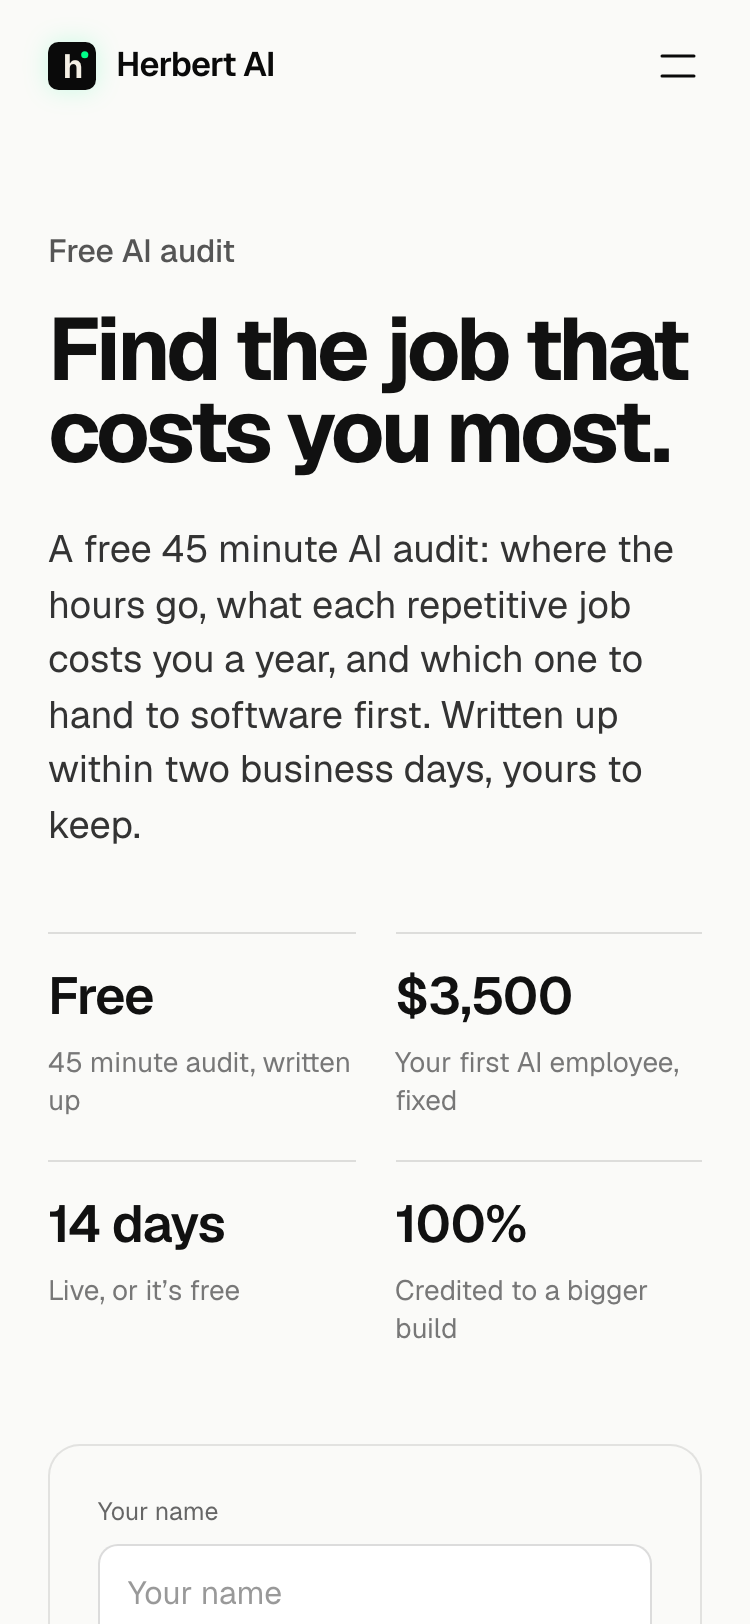
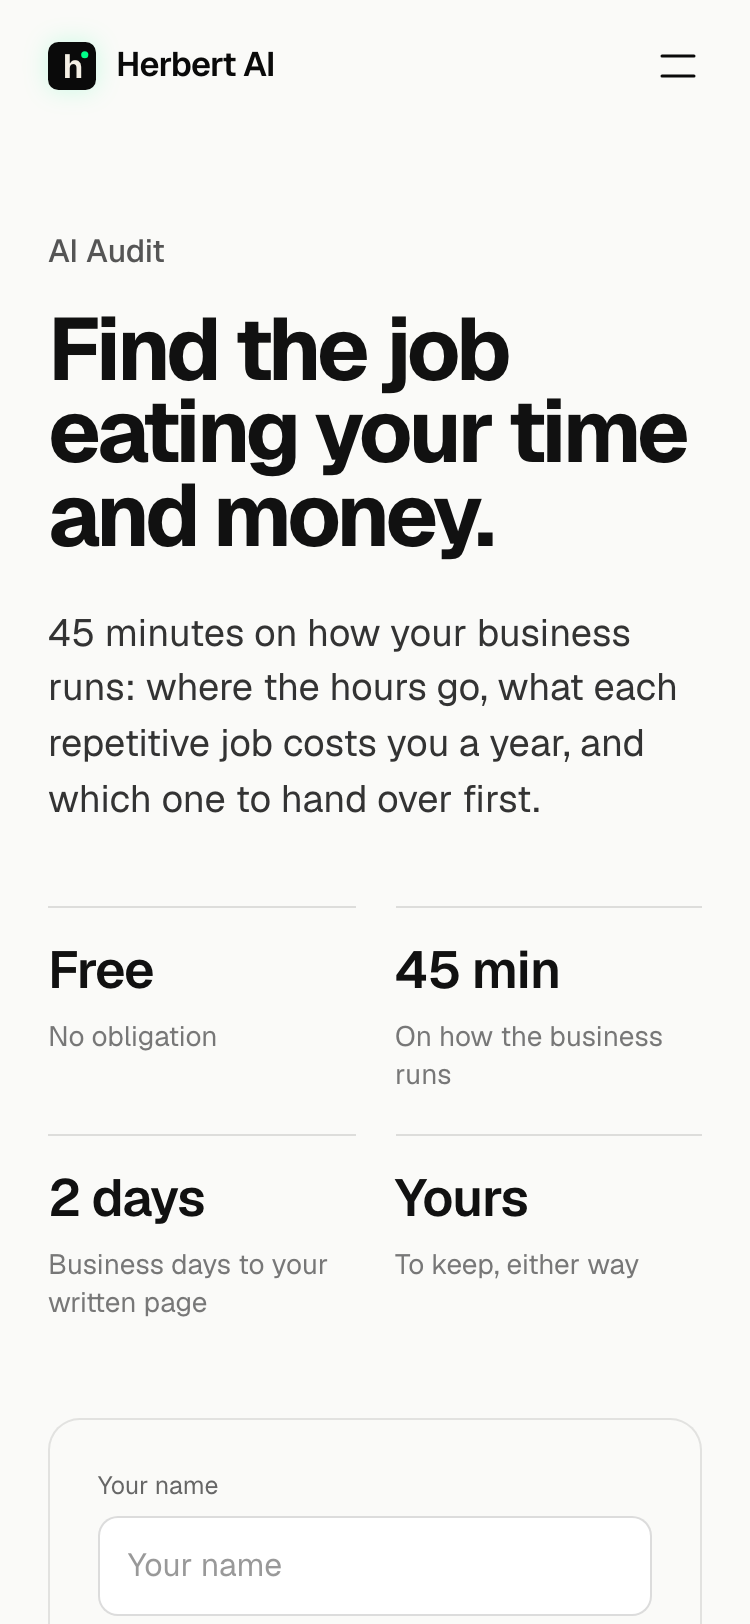
pilot: the label ai audit, a one-sentence intro and the audit's own terms

diff --git a/herbertai-website/src/app/pilot/page.js b/herbertai-website/src/app/pilot/page.js
@@ -72,12 +72,15 @@ const faqJsonLd = {
 // skeletons are in docs/design/design-pass-site-2026-10-20-pilot-skeleton.png.
 // Words are the details pass, section by section. Detail 1 (Will, 20 Oct 2026,
 // "1"): the heading answers the homepage's last question in the same words.
+// Detail 2 (Will, 20 Oct 2026, "1, can u change the heading from Free AI Audit
+// to AI Audit"): a one-sentence intro and the audit's own terms; the pilot's
+// terms are explained in How it works and the questions.
 
 const TERMS = [
-  ['Free', '45 minute audit, written up'],
-  ['$3,500', 'Your first AI employee, fixed'],
-  ['14 days', 'Live, or it’s free'],
-  ['100%', 'Credited to a bigger build'],
+  ['Free', 'No obligation'],
+  ['45 min', 'On how the business runs'],
+  ['2 days', 'Business days to your written page'],
+  ['Yours', 'To keep, either way'],
 ]
 
 const STEPS = [
@@ -133,14 +136,13 @@ export default function Pilot() {
       <section id="book" className="bg-[#FAFAF8] text-[#111] scroll-mt-4">
         <div className="max-w-[1280px] mx-auto px-6 lg:px-12 pt-12 md:pt-16 pb-20 md:pb-24 grid lg:grid-cols-[0.95fr_1.05fr] gap-x-14 gap-y-12 items-center">
           <div className="min-w-0">
-            <Label>Free AI audit</Label>
+            <Label>AI Audit</Label>
             <h1 className="font-bold tracking-[-0.045em] leading-[0.95] max-w-[14ch]" style={{ fontSize: 'clamp(44px, 4.4vw, 64px)' }}>
               Find the job eating your time and money.
             </h1>
             <p className="mt-6 text-[19px] leading-[1.45] text-[#333] max-w-[40ch]">
-              A free 45 minute AI audit: where the hours go, what each repetitive job costs you a
-              year, and which one to hand to software first. Written up within two business days,
-              yours to keep.
+              45 minutes on how your business runs: where the hours go, what each repetitive job
+              costs you a year, and which one to hand over first.
             </p>
             <div className="mt-10 grid grid-cols-2 sm:grid-cols-4 gap-5 max-w-[760px]">
               {TERMS.map(([n, l]) => (

diff --git a/herbertai-website/docs/design/design-pass-site-2026-09.md b/herbertai-website/docs/design/design-pass-site-2026-09.md
@@ -2307,4 +2307,11 @@ terms (recommended): a one-sentence intro and Free / 45 min / 2 days / Yours,
 the pilot’s terms left to How it works and the questions. 2 no terms. 3 the
 short intro and the audit’s terms as one line of small print. Awaiting
 Will’s pick.
+Will (20 Oct 2026): "1, can u change the heading from Free AI Audit to AI
+Audit". Built: the label "AI Audit", the one-sentence intro, and the terms
+Free (No obligation), 45 min (On how the business runs), 2 days (Business days
+to your written page), Yours (To keep, either way). Verified at five widths,
+no term wraps. Carried to the How it works detail: the pilot’s $3,500 and its
+14-day guarantee left the hero, so How it works gets price lines per step like
+the homepage’s.
 
